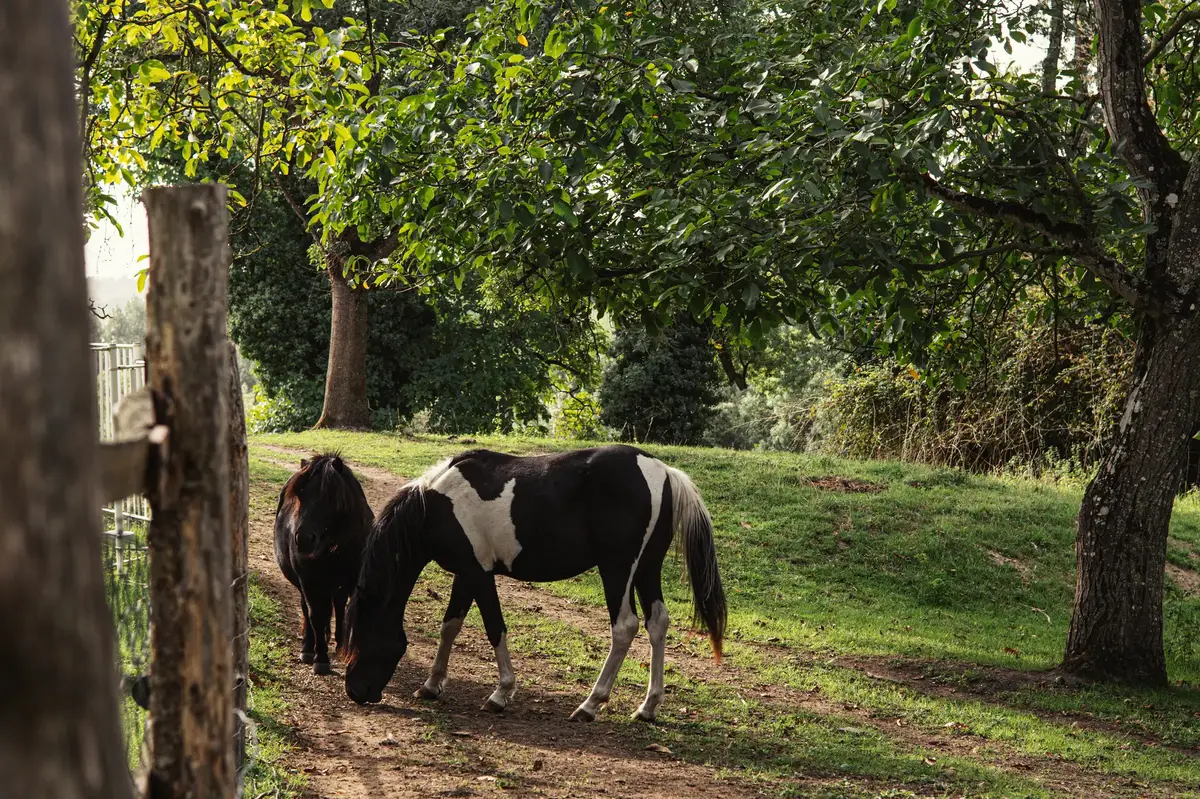
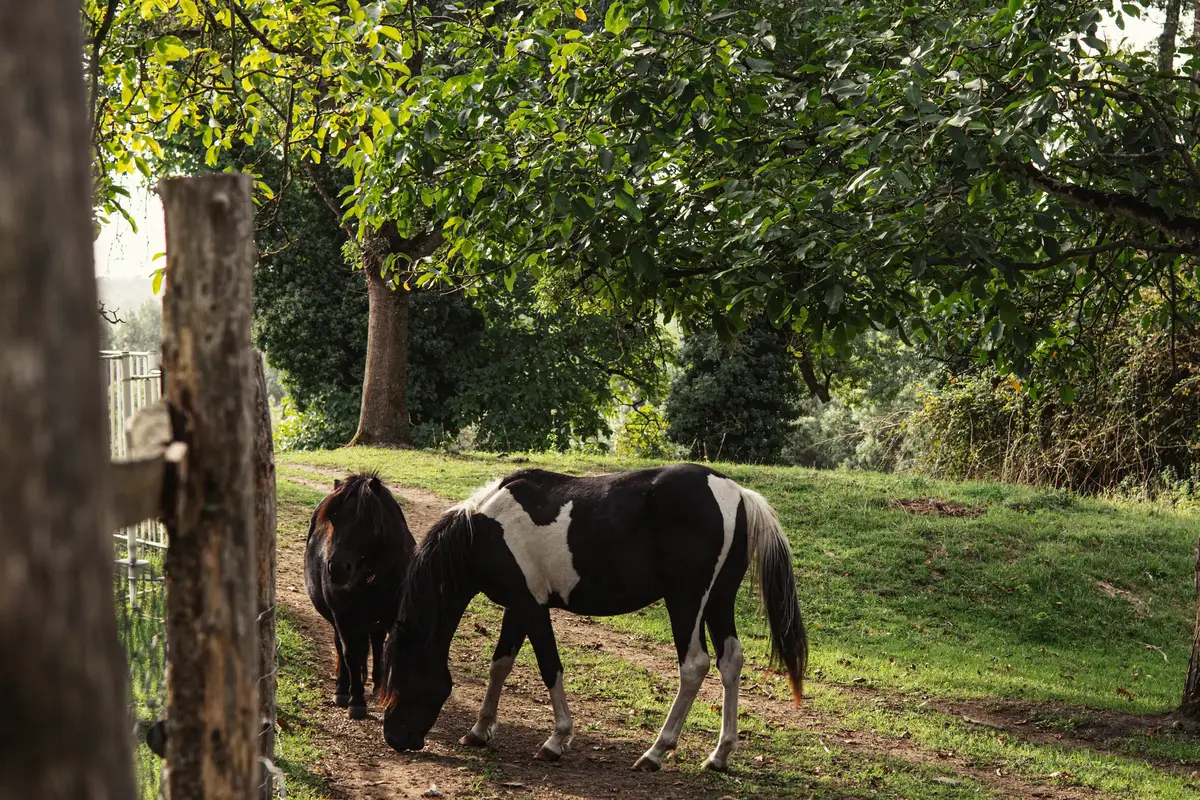
Add files via upload

diff --git a/index.html b/index.html
@@ -89,6 +89,12 @@
       <figure class="hero__slide is-active" data-place="Château de Noirieux — Hôtel 4★">
         <img src="assets/img/hero-noirieux-terrasse.webp" srcset="assets/img/hero-noirieux-terrasse-sm.webp 1200w, assets/img/hero-noirieux-terrasse.webp 2400w" sizes="100vw" width="2400" height="1601" alt="La terrasse du Château de Noirieux au crépuscule, la verrière éclairée face à la vallée" fetchpriority="high" decoding="async">
       </figure>
+      <figure class="hero__slide hero__slide--dim hero__slide--poneys" data-place="Château de Noirieux — Les poneys du parc">
+        <picture>
+          <source media="(max-width: 700px)" srcset="assets/img/hero-poneys-mobile.webp">
+          <img src="assets/img/hero-poneys-sm.webp" data-srcset="assets/img/hero-poneys-sm.webp 1200w, assets/img/hero-poneys.webp 2400w" sizes="100vw" width="2400" height="1600" alt="Deux poneys paissent sous les arbres du parc de Noirieux" decoding="async">
+        </picture>
+      </figure>
       <figure class="hero__slide hero__slide--dim" data-place="L'Attilio Paris — Gastronomie">
         <img src="assets/img/hero-gastro-paris-sm.webp" data-srcset="assets/img/hero-gastro-paris-sm.webp 1200w, assets/img/hero-gastro-paris.webp 2400w" sizes="100vw" width="2400" height="1601" alt="Une assiette gastronomique dégustée à L'Attilio Paris" decoding="async">
       </figure>
@@ -100,9 +106,6 @@
       </figure>
       <figure class="hero__slide hero__slide--dim" data-place="L'Attilio Paris — Gastronomie">
         <img src="assets/img/hero-gastro-poire-sm.webp" data-srcset="assets/img/hero-gastro-poire-sm.webp 1200w, assets/img/hero-gastro-poire.webp 2400w" sizes="100vw" width="2400" height="1601" alt="Une poire pochée servie sur une table de marbre noir" decoding="async">
-      </figure>
-      <figure class="hero__slide hero__slide--dim" data-place="Château de Noirieux — Les poneys du parc">
-        <img src="assets/img/hero-poneys-sm.webp" data-srcset="assets/img/hero-poneys-sm.webp 1200w, assets/img/hero-poneys.webp 2400w" sizes="100vw" width="2400" height="1598" alt="Des poneys paissent sous les arbres du parc de Noirieux" decoding="async">
       </figure>
       <figure class="hero__slide" data-place="Château de Noirieux — Le parc">
         <img src="assets/img/hero-noirieux-brume-sm.webp" data-srcset="assets/img/hero-noirieux-brume-sm.webp 1200w, assets/img/hero-noirieux-brume.webp 2400w" sizes="100vw" width="2400" height="1601" alt="La brume du matin sur la vallée, depuis le parc du Château de Noirieux" decoding="async">

diff --git a/assets/css/shaman.css b/assets/css/shaman.css
@@ -340,6 +340,9 @@ ul { list-style: none; margin: 0; padding: 0; }
 .hero__media { position: absolute; inset: 0; }
 .hero__slide { position: absolute; inset: 0; opacity: 0; transition: opacity 1.8s var(--ease); }
 .hero__slide.is-active { opacity: 1; }
+.hero__slide picture { display: contents; }
+.hero__slide--poneys img { object-position: 50% 100%; }
+.hero__slide--poneys::after { background: radial-gradient(60% 40% at 50% 40%, rgba(18,14,10,.38), rgba(18,14,10,.06)) !important; }
 .hero__slide--dim::after { content: ""; position: absolute; inset: 0; background: radial-gradient(70% 60% at 50% 48%, rgba(18,14,10,.42), rgba(18,14,10,.18)); }
 .hero__slide img { width: 100%; height: 100%; object-fit: cover; transform: scale(1.08); will-change: transform; }
 .hero__slide.is-active img { animation: kenburns 9s linear forwards; }
